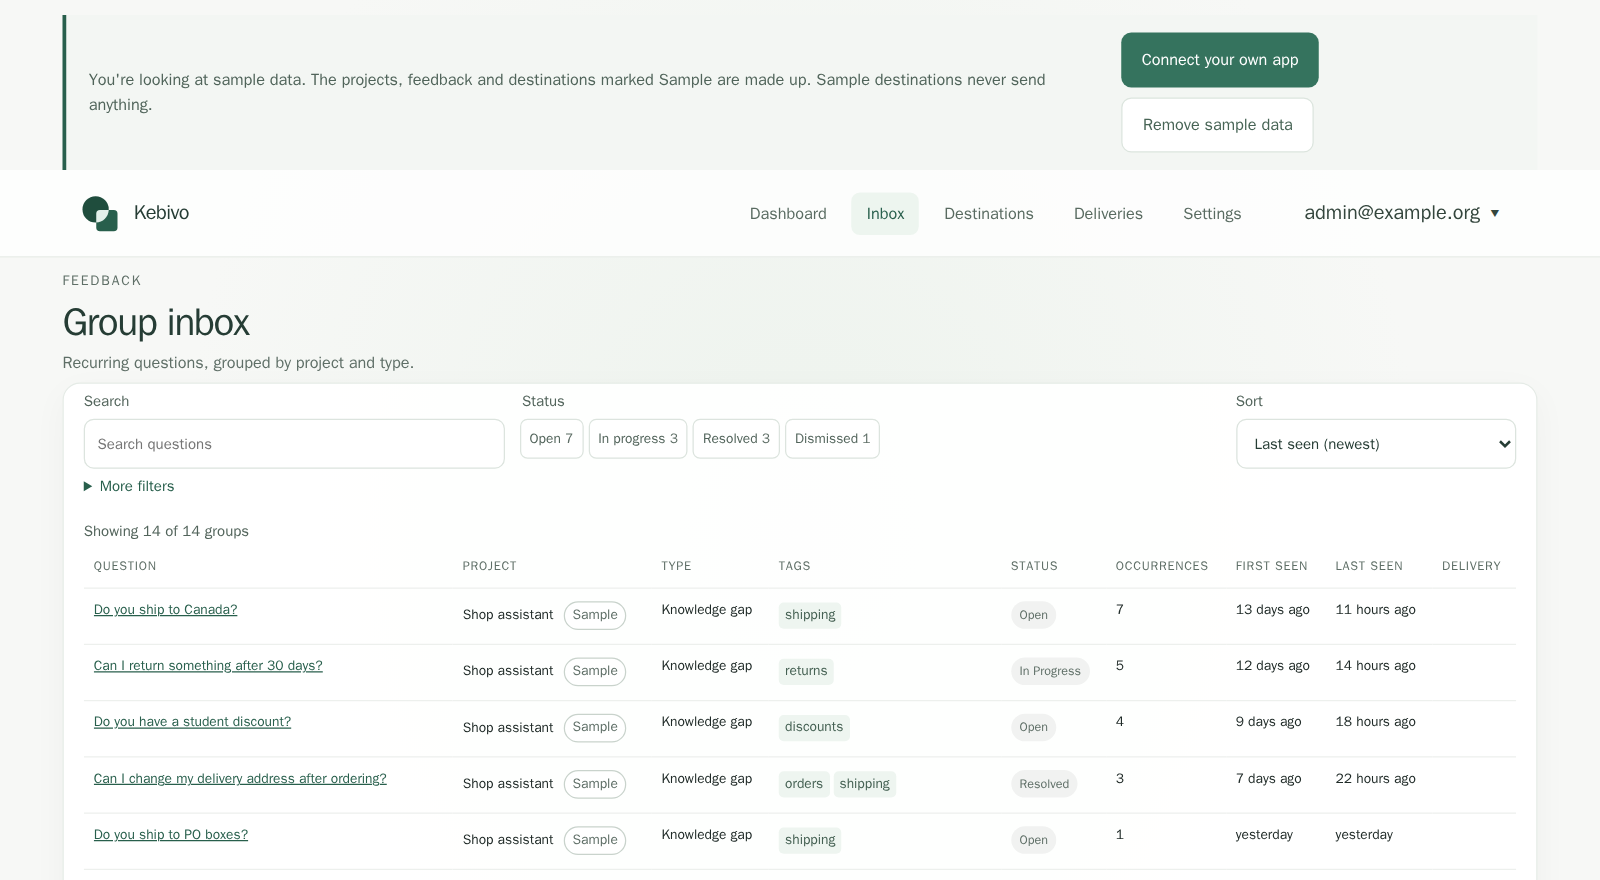
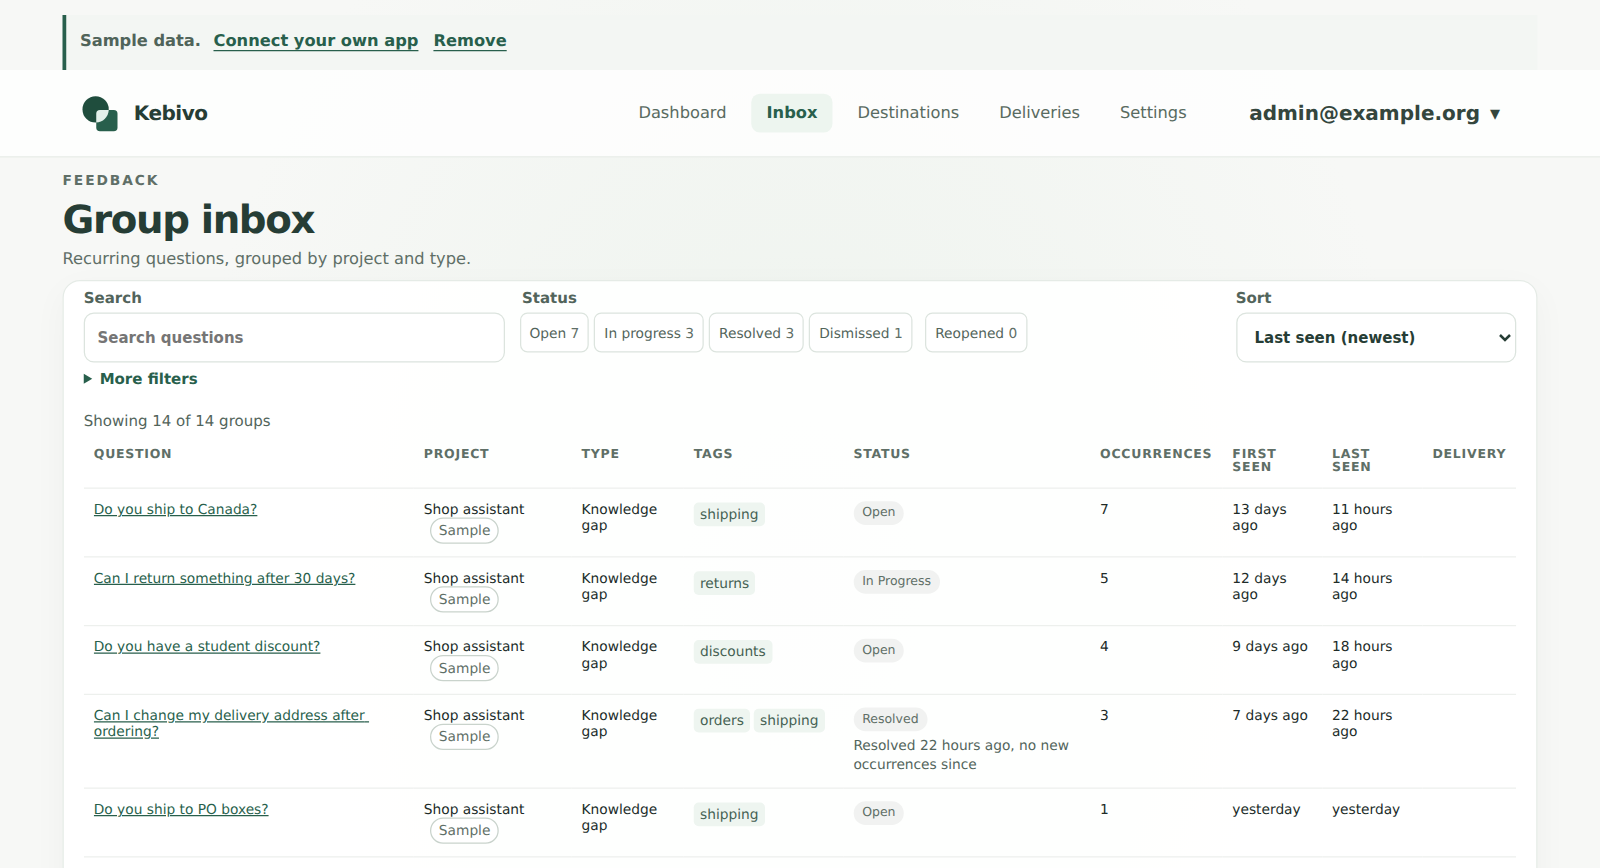
Refresh screenshots and add the phone inbox to the gallery
Regenerates the README and docs screenshots from next: the grouped
dashboard tiles, the group page with Status first and identical reports
collapsed, and the reopened state in the inbox. The phone inbox shot is
now saved to docs/images and shown under the gallery, with the one-time
star prompt dismissed first.

diff --git a/frontend/e2e/screenshots.spec.ts b/frontend/e2e/screenshots.spec.ts
@@ -122,9 +122,11 @@ test('02 inbox default filters', async () => {
   await expect(mobilePage.getByRole('heading', { name: 'Dashboard', level: 1 })).toBeVisible();
   await mobilePage.goto('/inbox');
   await expect(mobilePage.getByRole('heading', { name: 'Group inbox', level: 1 })).toBeVisible();
-  const mobileShot = path.resolve(process.cwd(), '../artifacts/mobile-inbox-390.png');
-  mkdirSync(path.dirname(mobileShot), { recursive: true });
-  await mobilePage.screenshot({ path: mobileShot, fullPage: true });
+  // The phone shot shows the list, not the one-time star prompt (dismissing it lasts for this admin).
+  await mobilePage.getByRole('button', { name: 'Dismiss' }).click();
+  await expect(mobilePage.getByRole('link', { name: 'Star on GitHub' })).toHaveCount(0);
+  await mobilePage.waitForLoadState('networkidle');
+  await mobilePage.screenshot({ path: path.join(OUT, '11-inbox-phone.png') });
   await mobile.close();
 });
 

diff --git a/README.md b/README.md
@@ -67,14 +67,16 @@ All screenshots use synthetic data.
 
 | | |
 | --- | --- |
-| ![First-time setup page: create the administrator account, with Start with sample data selected](docs/images/00-first-run.png) | ![Dashboard with feedback counts by status and the top recurring open gaps](docs/images/01-dashboard.png) |
+| ![First-time setup page: create the administrator account, with Start with sample data selected](docs/images/00-first-run.png) | ![Dashboard with counts grouped as now, last 7 days and all time, including groups resolved and reopened this week, above the top recurring open gaps](docs/images/01-dashboard.png) |
 | **First-run setup** | **Dashboard** |
-| ![Group inbox filtered by the tag it, with status counts and filters](docs/images/02-inbox.png) | ![Feedback group with occurrences, notes, history and deliveries](docs/images/03-group-detail.png) |
+| ![Group inbox with status counts, a Reopened filter, and a reopened group showing the new report since it was resolved](docs/images/02-inbox.png) | ![Feedback group with the Status buttons at the top of Triage and identical reports collapsed into one occurrence](docs/images/03-group-detail.png) |
 | **Inbox** | **Feedback group** |
 | ![Project page with the REST and MCP connection snippets (cURL tab)](docs/images/04-connect.png) | ![Ordered routing rules, the fallback destination and the dry-run simulator](docs/images/05-routing.png) |
 | **Connect a client** | **Routing rules** |
 | ![A failed webhook delivery with its attempts and a Retry button](docs/images/07-deliveries.png) | ![Destinations: the built-in inbox, a webhook and an SMTP mail destination](docs/images/06-destinations.png) |
 | **Failed delivery** | **Destinations** |
+| ![Group inbox on a 390 px wide phone: each group is a card with its tags, status and occurrence count, and a reopened group says how many new reports came in since you resolved it](docs/images/11-inbox-phone.png) | |
+| **Inbox on a phone** | |
 
 More: [settings](docs/images/08-settings.png), [LLM settings](docs/images/09-llm-settings.png), [sign-in](docs/images/10-sign-in.png). Regenerate them with `make e2e-ui SCREENSHOTS=1`.
 
